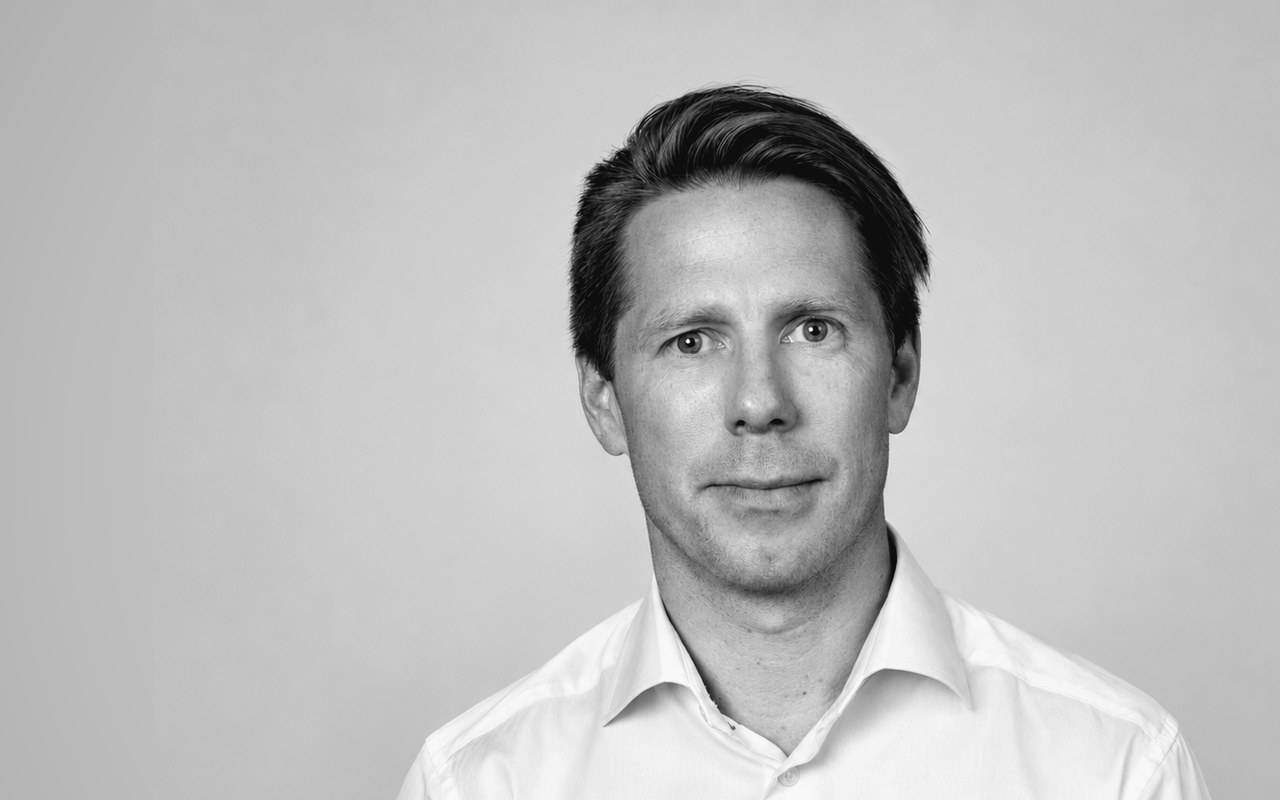
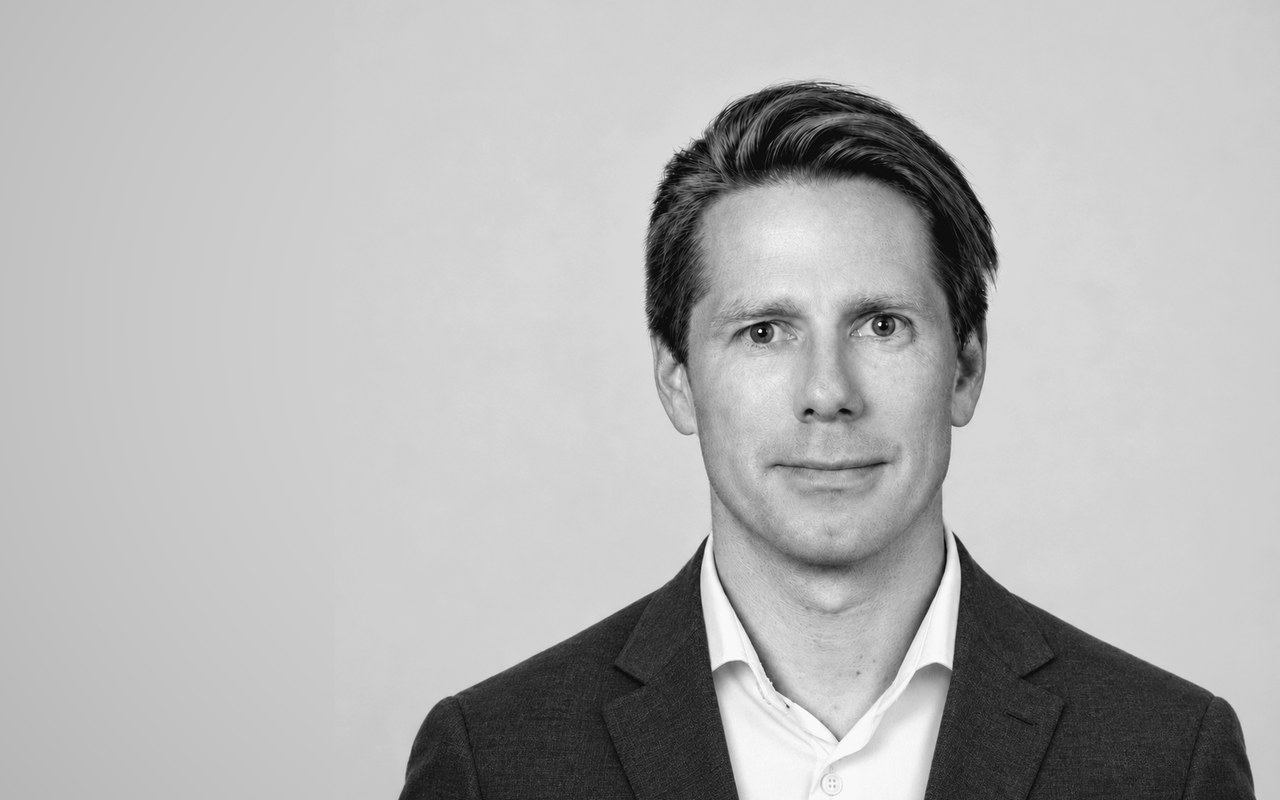
New Anders portrait; scroll chevron when there is room; 76px floor before What we do
Claude-Session: https://claude.ai/code/session_01YBMkN9yd1opv8CZHrsokYd

Changed region(s): [[0.3125, 0.0938, 1.0, 1.0]]

diff --git a/index.html b/index.html
@@ -14,7 +14,7 @@
   <meta property="og:url" content="https://www.nordingpartners.no/">
   <meta property="og:image" content="https://www.nordingpartners.no/assets/img/hero-fjord.jpg">
   <meta name="twitter:card" content="summary_large_image">
-  <link rel="stylesheet" href="assets/css/site.css?v=20261109c">
+  <link rel="stylesheet" href="assets/css/site.css?v=20261109d">
   <script type="application/ld+json">
   {
     "@context": "https://schema.org",
@@ -62,6 +62,10 @@
         <p class="lead measure">N&amp;P is a management consultancy supporting clients in value creation focused AI adoption, building on our expertise in strategy development, operational improvements and transactions.</p>
         <p class="lead measure">We work closely with our clients to create sustained results and bottom-line impact, and we are deeply committed to their long-term success.</p>
         <p class="measure"><a href="mailto:anders.nording@nordingpartners.no">Reach out to explore how we can aid in realizing your ambitions</a></p>
+      </div>
+      <!-- Fills the space down to the next section; the chevron appears only when there is room for it -->
+      <div class="intro__space" aria-hidden="true">
+        <svg class="scroll-hint" viewBox="0 0 160 24" width="160" height="24"><path d="M2 2 L80 22 L158 2" fill="none" stroke="currentColor" stroke-width="1"/></svg>
       </div>
     </section>
   </div>
@@ -259,6 +263,7 @@
     var bar = document.querySelector('.next-bar');
     var label = bar.querySelector('.next-bar__label');
     var footer = document.querySelector('.footer');
+    var hint = document.querySelector('.scroll-hint');
     var reduce = window.matchMedia('(prefers-reduced-motion: reduce)').matches;
     var current = null, swapping = false, ticking = false;
 
@@ -297,6 +302,8 @@
       });
       var footerIn = footer.getBoundingClientRect().top < vh;
       setLabel(footerIn ? null : next);
+      // the chevron has done its job once the reader starts scrolling
+      if (hint) hint.classList.toggle('is-hidden', window.scrollY > 40);
     }
     function onScroll() { if (!ticking) { ticking = true; requestAnimationFrame(update); } }
     window.addEventListener('scroll', onScroll, { passive: true });

diff --git a/assets/css/site.css b/assets/css/site.css
@@ -183,14 +183,34 @@ p, ul { margin: 0; }
   flex-direction: column;
 }
 
-/* Intro */
+/* Intro. The bottom padding is the floor: about three body lines (3 × 16px × 1.6)
+   between "Reach out" and the rule above What we do on compressed viewports */
 .intro {
   flex: 1;
   display: flex;
   flex-direction: column;
-  padding: var(--section) 0 24px;
+  padding: var(--section) 0 76px;
 }
 .intro .container { display: flex; flex-direction: column; gap: 16px; }
+
+/* Whatever room is left on taller viewports; the chevron shows only when there is enough of it */
+.intro__space {
+  flex: 1 1 0;
+  min-height: 0;
+  container-type: size;
+  display: flex;
+  align-items: center;
+  justify-content: center;
+}
+.scroll-hint {
+  display: none;
+  color: var(--stone);
+  transition: opacity 400ms ease;
+}
+@container (min-height: 140px) {
+  .scroll-hint { display: block; }
+}
+.scroll-hint.is-hidden { opacity: 0; }
 
 /* Sections fade in with scroll (opacity is set by the script; full without it) */
 .reveal { opacity: 1; }
@@ -366,5 +386,5 @@ p, ul { margin: 0; }
 @media (prefers-reduced-motion: reduce) {
   html { scroll-behavior: auto; }
   .reveal { opacity: 1 !important; }
-  .next-bar, .next-bar__label { transition: none; }
+  .next-bar, .next-bar__label, .scroll-hint { transition: none; }
 }
